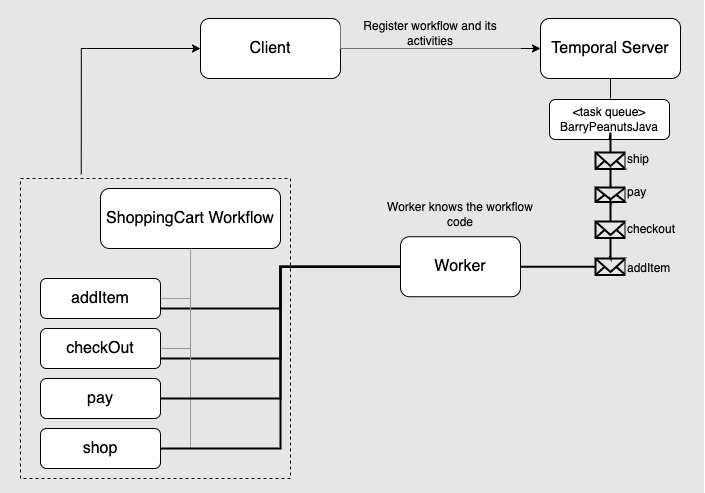
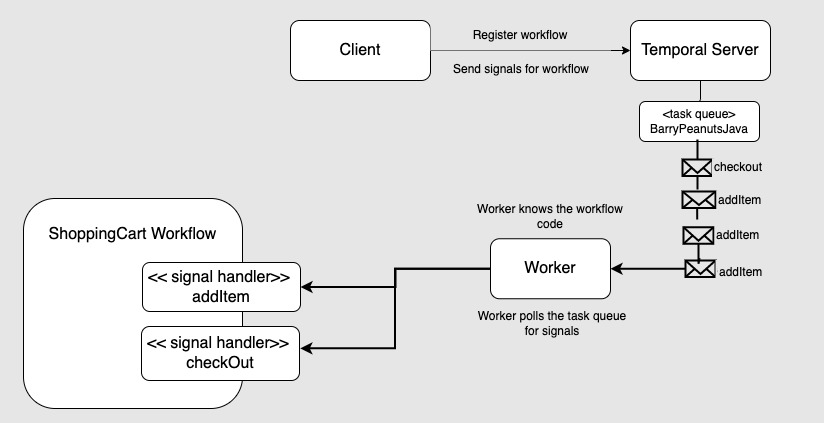
updated readmes

Changed region(s): [[0.0, 0.0307, 0.9674, 0.9835], [0.5617, 0.7376, 0.7801, 0.7991], [0.0624, 0.3381, 0.1248, 0.3688]]

diff --git a/BarrysPeanutsAkkaJava/readme.md b/BarrysPeanutsAkkaJava/readme.md
@@ -1,12 +1,19 @@
-# Implementing a flattened version of the Actor model under Akka
+# Implementing the Actor model under Akka
 
 This project demonstrates an Akka application, written in Java that simulates the activities of an e-commerce shopping cart.
 
-Figure 1 below illustrates the organization and operation of the demonstration project.
+Figure 1 below illustrates the organization and operation of the demonstration project. The client/controller component named `App` sends a 
+message of type `AddItem` to the `ShoppingCartActor` to a add purchase item(s) to the shopping cart as shown in Figure 1, callout 1.
 
-| ![Flat Style](./images/TBP.png)                      |
-|------------------------------------------------------|
-| Figure 1: The Akka implementation of the Actor Model |
+To instigate the checkout process, the `App` sends a message of type `Checkout` to the `ShoppingCartActor`. (See Figure 1, callout 2.)
+The `ShoppingCartActor` executes payment and shipping behavior as part of the checkout process. At the end of the payment logic,
+the `ShoppingCartActor` sends a fire-and-forget message of type `PaymentReceipt` to the `CustomerActor`. (See Figure 1, callout 3a.)
+
+At the end of shipping logic the `ShoppingCartActor` sends a fire-and-forget message of type `ShippingReceipt` to the `CustomerActor`. (See Figure 1, callout 3b.)
+
+| ![Akka Architecture](./images/app-controller-akka.jpg)                              |
+|-------------------------------------------------------------------------------------|
+| Figure 1: The Akka implementation of the Actor Model for the demonstration project. |
 
 # Running the code:
 

diff --git a/BarrysPeanutsTemporalJava/readme.md b/BarrysPeanutsTemporalJava/readme.md
@@ -11,11 +11,11 @@ as well as being the message broker that manages messages relevant to the given 
 The Worker is the component that receives messages and then executes behavior defined in the workflow according to the
 message received.
 
-Applications, by way of another Temporal component called a Client send signals to a Temporal workflow. (Remember, under
-Temporal, a message is called a signal.)
-The Temporal workflow then responds to the signal received. (See Figure 1.)
+Applications, by way of another Temporal component called a Client send signals relevant to the particular Temporal workflow to the Temporal Server. (Under
+Temporal, a message is called a signal.) The Temporal Worker listens on a task queue hosted by the Temporal Server for signals relevant to the given workflow.
+The Worker receives a signal from the task queue and then forwards it on to the Workflow code. The Temporal workflow responds to the signal received. (See Figure 1.)
 
-| ![Temporal Architecture](./images/TBP.png)                                          |
+| ![Temporal Architecture](./images/temp-arch-01.jpg)                                 |
 |-------------------------------------------------------------------------------------|
 | Figure 1: Adopting the Akka messaging style of communication to a Temporal Workflow |
 
